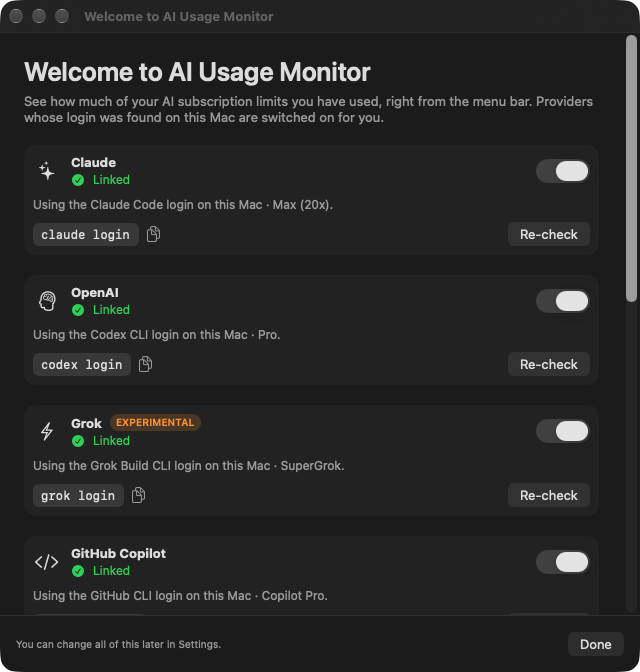
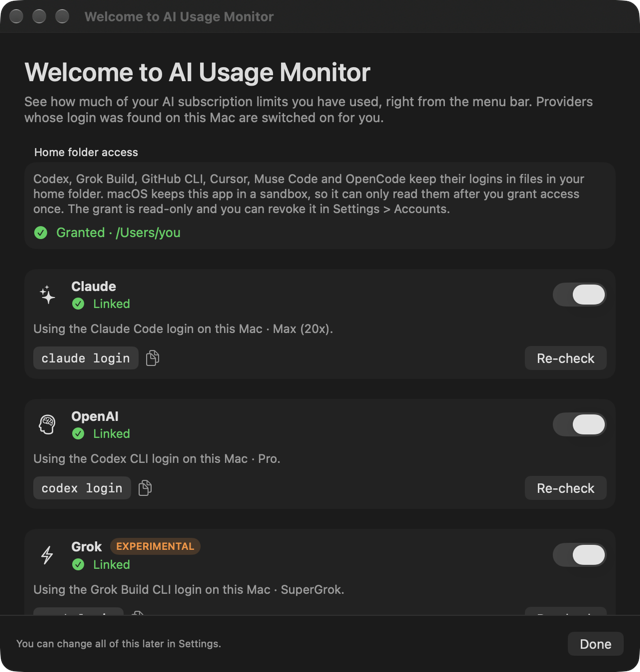
document user-granted home folder access

diff --git a/README.md b/README.md
@@ -88,6 +88,9 @@ notarised by Apple; see [Installation](#installation).
 | Muse Code | [Muse Code CLI](https://dev.meta.ai/docs/muse-code) with a Muse Code subscription | `muse login` |
 | OpenCode Go | [OpenCode](https://opencode.ai) CLI with a Go plan | `opencode auth login` |
 
+- A one-time grant of read-only access to your home folder, given in the Welcome window through
+  the standard macOS folder picker. The app is sandboxed and that is how it is allowed to read
+  the login files the tools above keep there; Claude's keychain login does not need it.
 - To build from source: Xcode 26.6 or later, [XcodeGen](https://github.com/yonaskolb/XcodeGen)
   and [SwiftLint](https://github.com/realm/SwiftLint).
 
@@ -139,19 +142,24 @@ The generated Xcode project and your local signing config are gitignored on purp
 
 ## Quick start
 
-1. Launch the app. The Welcome window lists all seven providers, shows which logins it found on
-   this Mac, and switches those providers on for you. Use the **Show** switch on each card to
-   change that, and **Re-check** after you sign in to a tool.
+1. Launch the app. The Welcome window opens with a **Home folder access** card at the top.
+   Click **Grant Access…**, leave the picker on your home folder and click **Grant Access**.
+   That one read-only grant is what lets the sandboxed app read the login files that Codex,
+   Grok Build, GitHub CLI, Cursor, Muse Code and OpenCode keep in your home folder; you can
+   revoke it any time in Settings > Accounts.
+2. The window then lists all seven providers, shows which logins it found on this Mac, and
+   switches those providers on for you. Use the **Show** switch on each card to change that,
+   and **Re-check** after you sign in to a tool.
 
    <img src="docs/images/onboarding.png" width="480"
-        alt="Welcome window listing the seven providers with their detected logins">
-2. For Claude, macOS may ask whether the app can read the "Claude Code-credentials" item in your
+        alt="Welcome window with the home folder access card and the seven provider cards">
+3. For Claude, macOS may ask whether the app can read the "Claude Code-credentials" item in your
    keychain. Choose **Always Allow**. With **Allow** the app asks again at most once per launch,
    because it reads the item once and keeps it in memory until it expires; an unsigned (ad-hoc)
    build asks again after every rebuild, see [Troubleshooting](#troubleshooting).
-3. Tick **Launch at login** if you want the monitor to start with your Mac, then click **Done**.
+4. Tick **Launch at login** if you want the monitor to start with your Mac, then click **Done**.
    The app keeps running in the menu bar.
-4. Click the menu bar icon to open the usage panel. **Refresh now** forces an immediate update.
+5. Click the menu bar icon to open the usage panel. **Refresh now** forces an immediate update.
 
 If a provider later shows **Re-link needed**, run that tool's login command again and click
 **Re-link** in Settings. The app never refreshes vendor tokens itself.
@@ -410,11 +418,12 @@ project.yml                  XcodeGen spec; UsageMonitor.xcodeproj is generated 
 - It **never refreshes or rotates** tokens and **never calls inference endpoints**.
 - Outbound HTTPS only, under App Transport Security, with an ephemeral, cookie-less session and
   a 1 MB response cap.
-- Hardened Runtime is on. App Sandbox is on, with read-only exceptions limited to seven paths:
-  `~/.codex/auth.json`, `~/.grok/auth.json`, `~/.config/gh/hosts.yml`, `~/.copilot/config.json`,
-  `~/.config/muse/auth.json`, `~/.local/share/opencode/auth.json` and Cursor's
-  `~/Library/Application Support/Cursor/User/globalStorage/` folder. Keychain items are read
-  through the normal macOS consent mechanism.
+- Hardened Runtime is on. App Sandbox is on with four entitlements: `app-sandbox`,
+  `network.client`, `files.user-selected.read-only` and `files.bookmarks.app-scope`. There are
+  no temporary-exception entitlements: the app can read a file in your home folder only after
+  you grant the folder once in the macOS picker, the grant is read-only, it is stored as a
+  security-scoped bookmark in the app's own preferences, and Settings > Accounts revokes it.
+  Keychain items are read through the normal macOS consent mechanism and need no grant.
 - Cursor's local database is opened read-only; the app never touches its refresh token.
 - Muse Code's endpoint returns an API key alongside the usage numbers; the app decodes past it
   and never keeps, logs or displays it.
@@ -429,7 +438,8 @@ Details: [SECURITY.md](SECURITY.md),
 [ADR 0002](docs/adr/0002-reuse-official-cli-credentials-no-token-persistence.md),
 [ADR 0004](docs/adr/0004-app-sandbox-with-read-only-exceptions.md),
 [ADR 0006](docs/adr/0006-local-only-observability.md),
-[ADR 0008](docs/adr/0008-additional-providers-and-menu-bar-status.md).
+[ADR 0008](docs/adr/0008-additional-providers-and-menu-bar-status.md),
+[ADR 0009](docs/adr/0009-user-granted-home-folder-access.md).
 
 ## Terms of service
 
@@ -444,9 +454,10 @@ time. The maintainers accept that risk for the project, not on your behalf. See
 | Symptom | Cause | What to do |
 |---|---|---|
 | **Not linked** | The vendor tool is not installed, or you have not signed in | Install the tool, run its login command (see [Requirements](#requirements)), then **Re-check** |
+| **Not linked: home folder access not granted** (every provider except Claude) | The sandbox grant is missing, was revoked, or went stale after your home folder moved | Click **Grant Access…** in the Welcome window or Settings > Accounts, keep the picker on your home folder and click **Grant Access** |
 | **Re-link needed** | The stored token expired or the vendor rejected it | Sign in with the tool again, then **Re-link** in Settings. The app never refreshes tokens itself |
 | OpenAI stays not linked although Codex works | Codex is storing credentials in the system keyring instead of `~/.codex/auth.json` | Not supported yet; see [Roadmap](#roadmap). Switch Codex back to file storage or wait for keyring support |
-| Custom `CODEX_HOME`, `GROK_HOME`, `GH_CONFIG_DIR`, `XDG_*` or `MUSE_AUTH_PATH` is ignored | Under App Sandbox only the default paths are readable; relative or empty overrides are always ignored | Keep the default locations, or run an unsandboxed development build |
+| Custom `CODEX_HOME`, `GROK_HOME`, `GH_CONFIG_DIR`, `XDG_*` or `MUSE_AUTH_PATH` is ignored | Under App Sandbox only paths inside the granted home folder are readable; relative or empty overrides are always ignored | Keep the store inside your home folder, or run an unsandboxed development build |
 | Grok shows "requires a newer client" | The billing endpoint returned HTTP 426 (client version gate) | Update the app; if the latest version is affected, open a [provider endpoint issue](https://github.com/jig21nesh/usage-monitor-app/issues/new/choose) |
 | Grok shows "re-link needed" most of the time | Grok Build tokens last about six hours and the CLI refreshes them only when it runs | Run any `grok` command (for example `grok models`), then **Re-link** |
 | Claude shows "rate limited" | HTTP 429 from the usage endpoint | Nothing to do; backoff handles it. Choose a longer refresh interval if it recurs |

diff --git a/docs/adr/0009-user-granted-home-folder-access.md b/docs/adr/0009-user-granted-home-folder-access.md
@@ -1,0 +1,91 @@
+# ADR 0009: User-granted home folder access instead of sandbox temporary exceptions
+
+Date: 2026-09-22
+Status: Accepted (amends ADR 0004)
+
+## Context
+
+ADR 0004 kept App Sandbox on and opened seven read-only holes with
+`com.apple.security.temporary-exception.files.home-relative-path.read-only`, one per vendor
+credential file plus Cursor's `globalStorage` folder. That was acceptable while the project
+shipped only as a DMG. The maintainer now intends to publish the same app on the Mac App Store,
+where App Review guideline 2.4.5(i) requires apps to be "appropriately sandboxed" and to use the
+appropriate macOS APIs for other apps' data; temporary-exception entitlements are, in practice,
+rejected unless the reviewer accepts a justification, and there is no supported way to argue
+for seven of them.
+
+The sanctioned mechanism is user consent through the open panel: the folder the user picks
+becomes a security-scoped bookmark the app may store and re-open on later launches
+(`com.apple.security.files.user-selected.read-only` plus
+`com.apple.security.files.bookmarks.app-scope`). Keychain items are outside this discussion:
+they are read through the normal macOS consent dialog with no file entitlement at all.
+
+Options:
+
+1. **Keep the exceptions on the DMG and use bookmarks only in the store build.** Two behaviours
+   to test, two onboarding flows, two sets of support answers.
+2. **One behaviour: the user grants the home folder once, in both builds.** One extra step on
+   the Welcome screen; identical binaries apart from the signing identity and the distribution
+   method, so the store version and the GitHub tag stay the same number.
+3. **Drop the sandbox.** Rules the store out and loses the defence in depth ADR 0004 chose.
+
+## Decision
+
+Adopt option 2.
+
+- Entitlements: remove the temporary exceptions; add `files.user-selected.read-only` and
+  `files.bookmarks.app-scope`. App Sandbox, Hardened Runtime and `network.client` stay.
+- `HomeFolderAccess` (Core) owns one security-scoped bookmark to the home folder:
+  `activate()` at launch resolves the stored bookmark and starts access for the life of the
+  process; `grant(_:)` accepts only the real home directory (trailing slashes and `.` segments
+  ignored), stores a read-only bookmark and starts access; `revoke()` stops access and deletes
+  the bookmark. States are `granted`, `notGranted`, `stale` and `unavailable(reason)`.
+- The bookmark is stored in the app's own `UserDefaults`. It is a pointer to a folder the user
+  chose, not a credential, so ADR 0002's rule that the app persists no token is untouched.
+- `HomeFolderGatedFileSystem` wraps `LocalFileSystem`: while the grant is missing, any read
+  inside the home folder fails with `FileReadError.accessNotGranted`, which every file-backed
+  source maps to `ProviderError.credentialsUnreadable("home_folder_not_granted")`. The UI then
+  says "Grant access to your home folder" instead of "could not be read". Paths outside the
+  home folder (an absolute `CODEX_HOME`, for example) pass straight through.
+- `UsageMonitorModel` activates the grant in `start()` before the first poll, exposes
+  `homeFolderState`, and after `grantHomeFolder` re-probes every provider and polls once so the
+  cards flip without a relaunch. The Welcome window shows a "Home folder access" card above the
+  provider cards; Settings > Accounts shows the state with Grant and Revoke; Diagnostics shows
+  the state in its footer.
+- The open panel lives in the app target behind `HomeFolderPicking`; UI-test builds use a fake
+  that answers with the expected folder, and a fixed `/Users/you` path so screenshots never
+  show a real user name.
+
+Evidence (spike on 2026-09-22, macOS 27.0, a throwaway sandboxed app with exactly the new
+entitlements and none of the old exceptions):
+
+| Step | Result |
+|---|---|
+| Open panel on the real home with `canChooseDirectories`, `showsHiddenFiles` | Pressing the prompt button without selecting a child returned `/Users/<user>` |
+| `bookmarkData(options: [.withSecurityScope, .securityScopeAllowOnlyReadAccess])` | 632 bytes; resolving with `.withSecurityScope` gave `stale=false` |
+| Same launch, before `startAccessingSecurityScopedResource` | All present files readable: the panel itself grants a session extension |
+| Fresh launch, before `startAccessing…` | Every read failed with `NSCocoaErrorDomain` 513 (no permission), so the sandbox is enforced |
+| Fresh launch, after `startAccessing…` returned true | `.codex/auth.json` 3968 B, `.grok/auth.json` 1725 B, `.config/gh/hosts.yml` 86 B, `.copilot/config.json` 280 B and Cursor's `state.vscdb` (1 MB cap) all read; Muse and OpenCode files absent on that Mac (code 4, expected) |
+| After `stopAccessing…` | Reads failed with 513 again |
+
+One home-folder bookmark therefore covers all seven locations, including the Cursor database
+under `~/Library/Application Support`, persists across launches, and access is process-wide by
+path once started, which is why `UserEnvironment.homeDirectory` stays the passwd-derived home.
+
+## Consequences
+
+- One extra step on first run: the user clicks Grant Access and confirms the pre-selected home
+  folder. Until then the six file-backed providers show "Not linked" with the grant hint;
+  Claude, which is keychain-only, works regardless.
+- The grant is revocable in Settings > Accounts and survives updates, because the bookmark is
+  app-scoped to the bundle identifier.
+- A renamed or migrated home folder makes the bookmark stale or unresolvable; the app reports
+  it and asks for a fresh grant rather than guessing.
+- Custom store locations outside the home folder stay unreadable under the sandbox, as before;
+  absolute overrides inside the home folder now work once the grant exists.
+- The DMG and the App Store build share this behaviour and version number; only signing and
+  the upload path differ (ADR 0007).
+- The first keychain consent dialog for the Claude Code item is unchanged.
+- `FoundationSecurityScopedBookmarks` is the only code that touches the security-scope APIs. It
+  is exercised by a round-trip test on a temporary folder; the scope start and stop calls are
+  no-ops outside a sandbox, so their return value is not asserted.

diff --git a/docs/adr/README.md b/docs/adr/README.md
@@ -8,11 +8,12 @@ records are kept and link forward to their replacement.
 | [0001](0001-thin-app-and-core-package-architecture.md) | Thin app target plus a testable Core Swift package | Accepted | All logic lives in `UsageMonitorCore` behind protocols with fakes; the app target holds scenes and views only |
 | [0002](0002-reuse-official-cli-credentials-no-token-persistence.md) | Reuse the official CLIs' credentials; the app persists no tokens | Accepted | Read the vendor CLIs' logins, keep them in process memory only, never persist or refresh them; amended 2026-09-21 to cache between polls (re-read on expiry, 401 or Re-link) and to probe only enabled providers at start-up |
 | [0003](0003-unofficial-usage-endpoints-and-terms-posture.md) | Unofficial usage endpoints and terms-of-service posture | Accepted | Read-only requests to undocumented usage endpoints with vendor-style headers, backoff and an explicit unofficial notice; amended 2026-09-20 for POST reads, key-minting endpoints and poll floors |
-| [0004](0004-app-sandbox-with-read-only-exceptions.md) | App Sandbox on with read-only exceptions, Hardened Runtime on | Accepted | Sandbox verified by spike: two home-relative read-only file exceptions plus normal keychain access |
+| [0004](0004-app-sandbox-with-read-only-exceptions.md) | App Sandbox on with read-only exceptions, Hardened Runtime on | Amended by 0009 | Sandbox verified by spike: home-relative read-only file exceptions plus normal keychain access; the exceptions were replaced by a user grant on 2026-09-22 |
 | [0005](0005-swift-testing-and-coverage-gate.md) | Swift Testing with a 90% coverage gate on Core | Accepted | Swift Testing for Core, gate enforced in CI, SwiftUI view bodies covered by XCUITest instead |
 | [0006](0006-local-only-observability.md) | Local-only observability | Accepted | Unified logging, signposts and in-app counters; no telemetry leaves the Mac |
 | [0007](0007-distribution-signing-and-releases.md) | Distribution as a DMG, signed and notarised when credentials exist | Accepted | `scripts/build-dmg.sh` signs with Developer ID and notarises when credentials exist, clearly labelled ad-hoc DMG otherwise; amended 2026-09-22: `scripts/release.sh` builds, tags and publishes from the maintainer's Mac, no release workflow |
 | [0008](0008-additional-providers-and-menu-bar-status.md) | Four more providers and a colour-coded menu bar status | Accepted | GitHub Copilot, Cursor, Muse Code and OpenCode Go under the credential-reuse rule; menu bar tinted by a tracked provider's session limit |
+| [0009](0009-user-granted-home-folder-access.md) | User-granted home folder access instead of sandbox temporary exceptions | Accepted | The user grants the home folder once in the open panel; a read-only security-scoped bookmark replaces seven temporary-exception entitlements, identically for the DMG and the App Store build |
 
 ## Writing a new record
 

diff --git a/docs/adr/0004-app-sandbox-with-read-only-exceptions.md b/docs/adr/0004-app-sandbox-with-read-only-exceptions.md
@@ -1,7 +1,7 @@
 # ADR 0004: App Sandbox on with read-only exceptions, Hardened Runtime on
 
 Date: 2026-09-19
-Status: Accepted
+Status: Accepted, amended by [ADR 0009](0009-user-granted-home-folder-access.md) on 2026-09-22
 
 ## Context
 
@@ -48,3 +48,14 @@ keychain ok present=true bytes=524
   validation exceptions.
 - Distribution outside the App Store still requires Developer ID signing and notarisation,
   which are out of scope for the first release.
+
+## Amendment 2026-09-22: temporary exceptions replaced by a user grant
+
+The Mac App Store became a target, and App Review does not accept home-relative
+temporary-exception entitlements for seven paths. [ADR 0009](0009-user-granted-home-folder-access.md)
+replaces them with `com.apple.security.files.user-selected.read-only` and
+`com.apple.security.files.bookmarks.app-scope`: the user grants the home folder once through the
+open panel and the app keeps a read-only security-scoped bookmark. App Sandbox, Hardened Runtime,
+outbound-only networking and keychain access through the normal consent dialog are unchanged.
+The spike evidence above remains valid for the sandbox itself; the file evidence is superseded by
+the table in ADR 0009.

diff --git a/CHANGELOG.md b/CHANGELOG.md
@@ -7,6 +7,20 @@ project adheres to [Semantic Versioning](https://semver.org/spec/v2.0.0.html).
 
 ## [Unreleased]
 
+### Changed
+
+- App Sandbox no longer relies on temporary-exception entitlements for the seven vendor
+  credential paths. The user grants read-only access to their home folder once, through the
+  standard macOS folder picker, and the app keeps a security-scoped bookmark (ADR 0009). The
+  same build is now suitable for the Mac App Store.
+- File-backed providers report "Grant access to your home folder" instead of "could not be
+  read" while the grant is missing.
+
+### Added
+
+- "Home folder access" card in the Welcome window and section in Settings > Accounts with
+  Grant and Revoke; the grant state also appears in the Diagnostics footer.
+
 ## [0.1.0] - 2026-09-21
 
 ### Added
